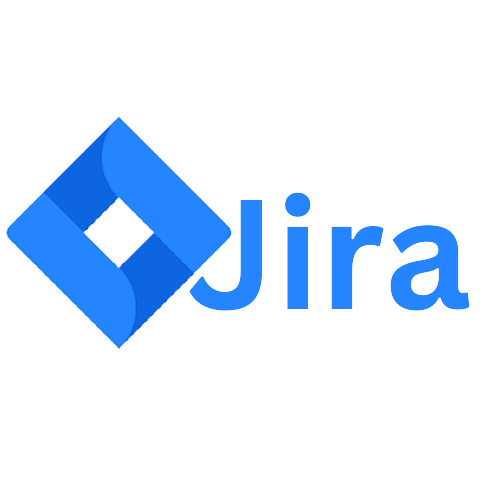
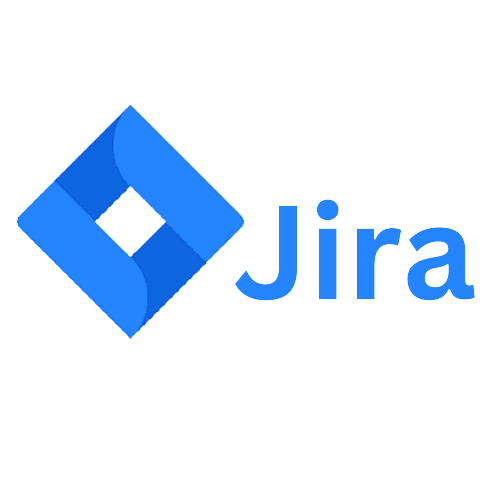
chbani elhabib

diff --git a/index.html b/index.html
@@ -46,14 +46,11 @@
     </p>
     <h3> • DadaBase  :</h3>
     <p align="left">
-    <img src="image/sql.png" alt="SQL" width="98px" height="80px"/>
-    <img src="image/MySQL.png" alt="MySQL" width="93px" height="83px"/>
-    <img src="image/NoSQL.png" alt="NoSQL" width="100" height="60"/>
-    <img src="image/MongoDB.png" alt="MongoDB" width="100" height="60"/>
+        <img src="image/DadaBase.png" alt="DadaBase"/>
     </p>
     <h3> • Project management :</h3>
     <p align="left">
-        <img src="image/Jira.png" alt="Jira" width="105px" height="86px"/>
+        <img src="image/Jira.png" alt="Jira" width="114px" height="102px"/>
     </p>
     <h3> • SGBD  :</h3>
         <p align="left">

diff --git a/README.md b/README.md
@@ -38,17 +38,13 @@
 </p>
 <h3> • DadaBase  :</h3>
 <p align="left">
-    <img src="image/sql.png" alt="SQL" width="98px" height="80px"/>
-    <img src="image/MySQL.png" alt="MySQL" width="93px" height="83px"/>
-<img src="https://2.bp.blogspot.com/-5k1bgBZ2DnU/V0qd4_rNr3I/AAAAAAAAL_w/wy8xW8jCyZ4rGHFPSqv_H6kYQ2foaacVACLcB/s320/NoSQL.png" alt="NoSQL" width="100" height="60"/>
-    <img src="image/MongoDB.png" alt="MongoDB" width="100" height="60"/>
+    <img src="image/DadaBase.png" alt="DadaBase"/>
 </p>
 <h3> • Project management :</h3>
 <p align="left">
-    <img src="image/Jira.png" alt="Jira" width="105px" height="86px"/>
+    <img src="image/Jira.png" alt="Jira" width="114px" height="102px"/>
 </p>
 <h3> • SGBD  :</h3>
 <p align="left">
-    <img src="image/UML.png" alt="UML" width="105px" height="86px"/>
-    <img src="image/Merise.png" alt="Merise" width="112px" height="97px"/>
+    <img src="image/SGBD.png" alt="SGBD"/>
 </p>
